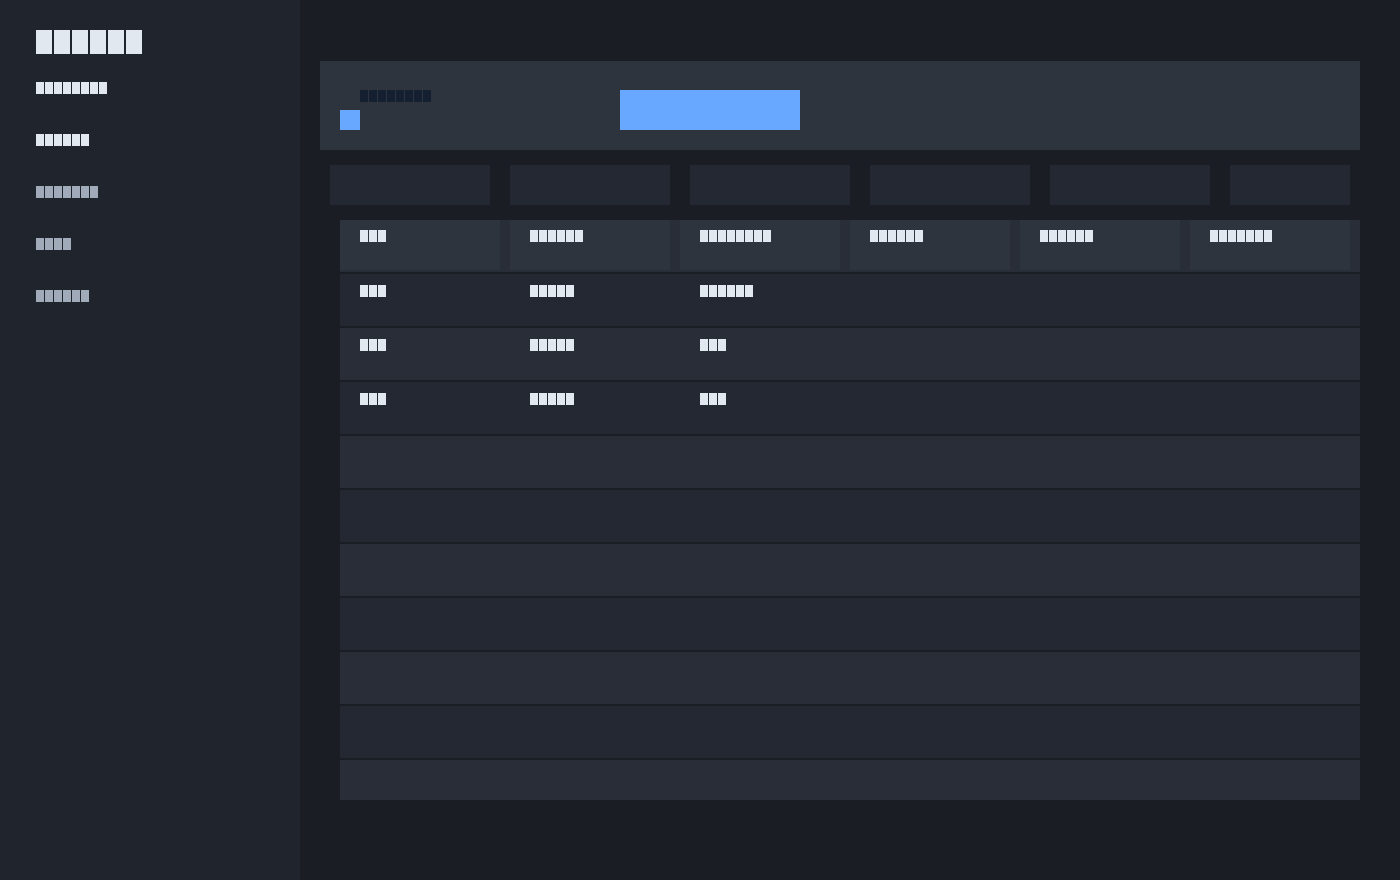
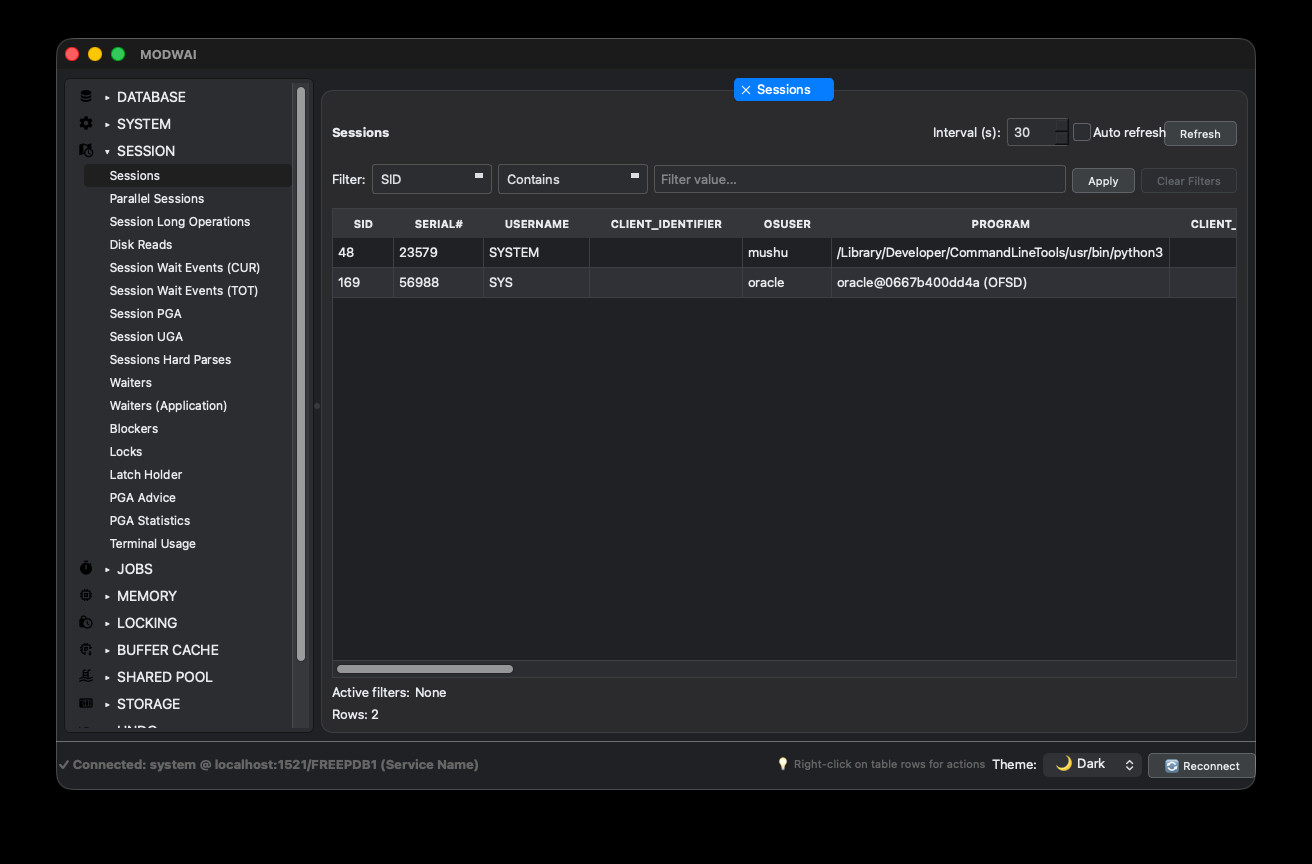
paddle ids and screenshots

diff --git a/index.html b/index.html
@@ -129,10 +129,10 @@
 
         <div class="pricing-grid">
           <article class="plan-card" data-plan-card
-            data-monthly-id="pri_01k8e7kh6g9acdtr82pczkm414"
-            data-annual-id="pri_01k8e7hqxbc8expmheydy3p8tv"
-            data-monthly-sandbox-id=""
-            data-annual-sandbox-id=""
+            data-monthly-id=""
+            data-annual-id=""
+            data-monthly-sandbox-id="pri_01k8dxd4qvr1wnrd1c34dhbh5y"
+            data-annual-sandbox-id="pri_01k8e7g8bgwzn80gjaakfgabfe"
             data-monthly-label="Live monthly price confirmed at checkout"
             data-annual-label="Annual price calculated at checkout"
             data-monthly-cta="Start monthly plan"
@@ -151,15 +151,15 @@
               <li>AI remediation assistant with guardrails</li>
               <li>24/7 incident summaries &amp; on-call handover</li>
             </ul>
-            <a class="checkout-btn" data-price-id="pri_01k8e7kh6g9acdtr82pczkm414" data-plan="Observability Starter">Start monthly plan</a>
+            <a class="checkout-btn" data-price-id="" data-plan="Observability Starter">Start monthly plan</a>
             <p class="plan-note">Need onboarding help? <a href="#contact">Talk to us</a>.</p>
           </article>
 
           <article class="plan-card is-featured" data-plan-card
-            data-monthly-id="pri_01k8e7g8bgwzn80gjaakfgabfe"
-            data-annual-id="pri_01k8dxk5e3nsnq9zeatcxtjy4n"
-            data-monthly-sandbox-id=""
-            data-annual-sandbox-id=""
+            data-monthly-id=""
+            data-annual-id=""
+            data-monthly-sandbox-id="pri_01k8dxeca4wc8dwndkvaxk1xtq"
+            data-annual-sandbox-id="pri_01k8e7hqxbc8expmheydy3p8tv"
             data-monthly-label="Best value for growing teams"
             data-annual-label="Best value · billed annually"
             data-monthly-cta="Choose Growth plan"
@@ -178,15 +178,15 @@
               <li>Custom data retention &amp; role-based access</li>
               <li>Premium onboarding and SRE office hours</li>
             </ul>
-            <a class="checkout-btn" data-price-id="pri_01k8e7g8bgwzn80gjaakfgabfe" data-plan="Operations Growth">Choose Growth plan</a>
+            <a class="checkout-btn" data-price-id="" data-plan="Operations Growth">Choose Growth plan</a>
             <p class="plan-note">Includes 6 months of automation insights.</p>
           </article>
 
           <article class="plan-card" data-plan-card
-            data-monthly-id="pri_01k8dxeca4wc8dwndkvaxk1xtq"
-            data-annual-id="pri_01k8dxd4qvr1wnrd1c34dhbh5y"
-            data-monthly-sandbox-id=""
-            data-annual-sandbox-id=""
+            data-monthly-id=""
+            data-annual-id=""
+            data-monthly-sandbox-id="pri_01k8dxk5e3nsnq9zeatcxtjy4n"
+            data-annual-sandbox-id="pri_01k8e7kh6g9acdtr82pczkm414"
             data-monthly-label="Enterprise pricing revealed at checkout"
             data-annual-label="Preferred enterprise pricing shown at checkout"
             data-monthly-cta="Launch enterprise checkout"
@@ -205,7 +205,7 @@
               <li>Advanced compliance workflows &amp; attestations</li>
               <li>24/7 enterprise support with 30-minute SLA</li>
             </ul>
-            <a class="checkout-btn" data-price-id="pri_01k8dxeca4wc8dwndkvaxk1xtq" data-plan="Enterprise Guard">Launch enterprise checkout</a>
+            <a class="checkout-btn" data-price-id="" data-plan="Enterprise Guard">Launch enterprise checkout</a>
             <p class="plan-note">Custom procurement? <a href="#contact">Contact sales</a>.</p>
           </article>
         </div>
